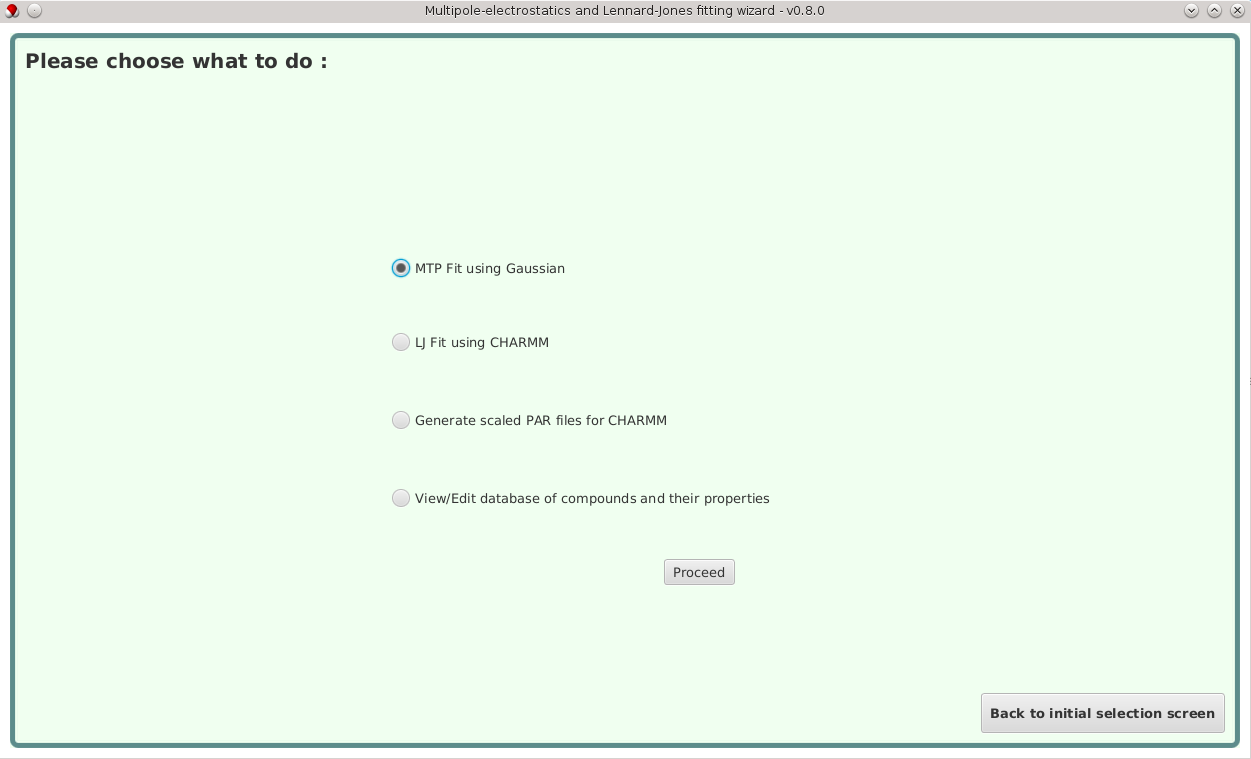
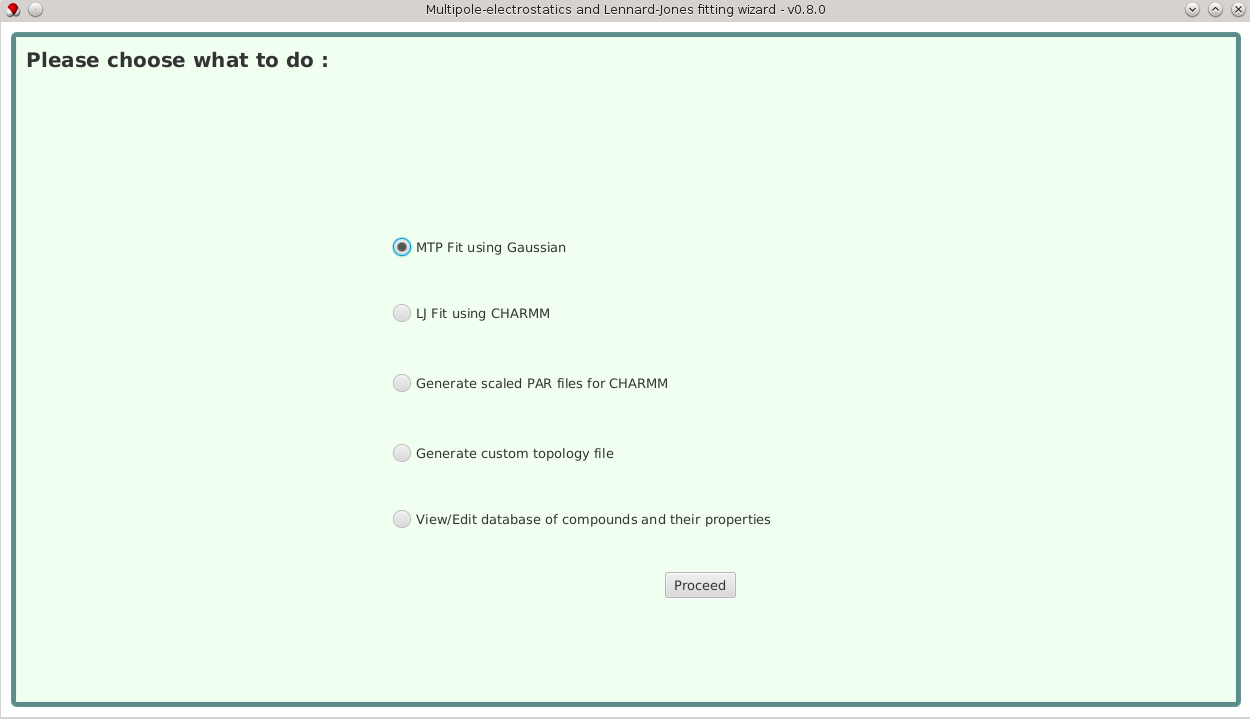
added basic interface for generating RTF and PSF files

diff --git a/src/ch/unibas/fittingwizard/WhereToGo.java b/src/ch/unibas/fittingwizard/WhereToGo.java
@@ -11,6 +11,7 @@ package ch.unibas.fittingwizard;
 import ch.unibas.charmmtools.gui.database.DB_View_Edit;
 import ch.unibas.charmmtools.gui.step1.CHARMM_GUI_InputAssistant;
 import ch.unibas.charmmtools.gui.step4.CHARMM_GUI_Fitgrid;
+import ch.unibas.charmmtools.gui.topology.GenerateTopology;
 import ch.unibas.fittingwizard.presentation.MoleculeListPage;
 import ch.unibas.fittingwizard.presentation.base.WizardPage;
 import java.io.File;
@@ -26,10 +27,10 @@ import javafx.scene.control.ToggleGroup;
  *
  * @author hedin
  */
-public class WhereToGo extends WizardPage{
+public class WhereToGo extends WizardPage {
 
     private static final String title = "Please choose what to do : ";
-    
+
     @FXML // fx:id="Choices"
     private ToggleGroup Choices; // Value injected by FXMLLoader
 
@@ -44,11 +45,13 @@ public class WhereToGo extends WizardPage{
 
     @FXML // fx:id="goMTP"
     private RadioButton goMTP; // Value injected by FXMLLoader
-    
+
     @FXML // fx:id="goGridScale"
     private RadioButton goGridScale; // Value injected by FXMLLoader
 
-    
+    @FXML // fx:id="goGridScale"
+    private RadioButton goTopology; // Value injected by FXMLLoader
+
     public WhereToGo() {
         super(title);
         removeButtonFromButtonBar(button_initialSelection);
@@ -59,33 +62,36 @@ public class WhereToGo extends WizardPage{
     protected void fillButtonBar() {
 
     }
-    
+
     @FXML
-    protected void goToScreen(ActionEvent e){
+    protected void goToScreen(ActionEvent e) {
         RadioButton selected = (RadioButton) Choices.getSelectedToggle();
-        
-        if (selected.equals(goMTP)){
-            
+
+        if (selected.equals(goMTP)) {
+
             navigateTo(MoleculeListPage.class, null);
-        
-        }
-        else if(selected.equals(goCHARMM)){
-            
+
+        } else if (selected.equals(goCHARMM)) {
+
 //            List<File> test = new ArrayList<>();
 //            test.add(new File("/home/hedin/progra/fittingWizard/test/ph_br.xyz"));
             navigateTo(CHARMM_GUI_InputAssistant.class);
-            
-        }
-        else if (selected.equals(goDB)){
-            
+
+        } else if (selected.equals(goDB)) {
+
             navigateTo(DB_View_Edit.class, null);
+
+        } else if (selected.equals(goGridScale)) {
+
+            navigateTo(CHARMM_GUI_Fitgrid.class, null);
+            
+        } else if (selected.equals(goTopology)) {
+
+            logger.info("Going to topology generate page");
+            navigateTo(GenerateTopology.class, null);
             
         }
-        else if (selected.equals(goGridScale)){
-            
-             navigateTo(CHARMM_GUI_Fitgrid.class, null);
-        }
-        
+
     }
-    
+
 }

diff --git a/src/ch/unibas/charmmtools/files/structure/PSF.java b/src/ch/unibas/charmmtools/files/structure/PSF.java
@@ -53,32 +53,34 @@ public abstract class PSF {
     protected List<Dihedral> diheList = null;
     protected List<Improper> imprList = null;
     
-        /**
+    public abstract String getTextContent();
+    
+    /**
      * @param args the command line arguments
      */
-    public static void main(String[] args) {
-
-        try {
-            // initialise logger
-            BasicConfigurator.configure();
-
-            //path to xyz file and csv file
-            String xyzName = args[0];
-            String csvName = args[1];
-
-            //reads a coordinates file (xyz format only)
-            XyzFile xyzf = XyzFileParser.parse(new File(xyzName));
-
-            //generates a topology file
-            RTF rtff = new RTF_generate(xyzf, csvName);
-            
-            //then a PSF file re-using data from PSF 
-            PSF psff = new PSF_generate(rtff);
-            
-        } catch (IOException ex) {
-            Logger.getLogger(RTF_generate.class.getName()).log(Level.SEVERE, null, ex);
-        }
-
-    }
+//    public static void main(String[] args) {
+//
+//        try {
+//            // initialise logger
+//            BasicConfigurator.configure();
+//
+//            //path to xyz file and csv file
+//            String xyzName = args[0];
+//            String csvName = args[1];
+//
+//            //reads a coordinates file (xyz format only)
+//            XyzFile xyzf = XyzFileParser.parse(new File(xyzName));
+//
+//            //generates a topology file
+//            RTF rtff = new RTF_generate(xyzf, csvName);
+//            
+//            //then a PSF file re-using data from PSF 
+//            PSF psff = new PSF_generate(rtff);
+//            
+//        } catch (IOException ex) {
+//            Logger.getLogger(RTF_generate.class.getName()).log(Level.SEVERE, null, ex);
+//        }
+//
+//    }
 
 } // end of class PSF

diff --git a/src/ch/unibas/charmmtools/files/structure/PSF_generate.java b/src/ch/unibas/charmmtools/files/structure/PSF_generate.java
@@ -11,10 +11,9 @@ package ch.unibas.charmmtools.files.structure;
 
 import ch.unibas.charmmtools.files.topology.RTF;
 import ch.unibas.charmmtools.internals.Atom;
-import ch.unibas.charmmtools.internals.Bond;
-import java.io.BufferedWriter;
-import java.io.FileWriter;
+import java.io.CharArrayWriter;
 import java.io.IOException;
+import java.io.Writer;
 import java.util.Date;
 
 /**
@@ -30,7 +29,7 @@ public final class PSF_generate extends PSF {
     private String format02, format02a, format02b, format03;
     private String format04, format05, format06, format07, format08;
 
-    private BufferedWriter writer = null;
+    private Writer writer = null;
 
     public PSF_generate(RTF topolInfo) throws IOException {
 
@@ -62,9 +61,12 @@ public final class PSF_generate extends PSF {
         this.fixMass(topolInfo);
 
         //generate psf file
-        writer = new BufferedWriter(new FileWriter(this.myname + ".psf"));
+//        writer = new BufferedWriter(new FileWriter(this.myname + ".psf"));
+//        this.generate();
+//        writer.close();
+        writer = new CharArrayWriter();
         this.generate();
-        writer.close();
+        
     }
 
     private void fixMass(RTF topolInfo) {
@@ -203,6 +205,12 @@ public final class PSF_generate extends PSF {
             writer.write("\n");
         }
         writer.write("\n");
+    }
+    
+    @Override
+    public String getTextContent()
+    {
+        return writer.toString();
     }
 
 

diff --git a/src/ch/unibas/charmmtools/files/topology/RTF.java b/src/ch/unibas/charmmtools/files/topology/RTF.java
@@ -16,9 +16,11 @@ import ch.unibas.charmmtools.internals.Bond;
 import ch.unibas.charmmtools.internals.Dihedral;
 import ch.unibas.charmmtools.internals.Improper;
 import ch.unibas.charmmtools.internals.InternalCoordinates;
+import java.io.CharArrayWriter;
 import java.io.FileNotFoundException;
 import java.io.FileReader;
 import java.io.IOException;
+import java.io.Writer;
 import java.util.ArrayList;
 import java.util.HashMap;
 import java.util.List;
@@ -32,7 +34,8 @@ import java.util.logging.Logger;
 public abstract class RTF {
 
     protected String fname = null;
-
+    protected Writer writer = null;
+    
     protected List<?> InputDataAtoms = null;
 
     protected int natom = 0;
@@ -96,12 +99,14 @@ public abstract class RTF {
                 put("F", 18.998);
             }
         };
+        this.writer = new CharArrayWriter();
     }//ctor
 
     public RTF(String atomicInfo) {
         this.covRad = new HashMap<String, Double>();
         this.atomicWeight = new HashMap<String, Double>();
         readAtomicInfo(atomicInfo);
+        this.writer = new CharArrayWriter();
     }//ctor
 
     public final void readAtomicInfo(String atInfoFileName) {
@@ -200,6 +205,11 @@ public abstract class RTF {
 
     public double findMass(String atname) {
         return atomicWeight.get(atname);
+    }
+    
+    public String getTextContent()
+    {
+        return writer.toString();
     }
 
 }//end of RTF class

diff --git a/doc/status/workflow_status.tex b/doc/status/workflow_status.tex
@@ -182,9 +182,37 @@ Then it is possible to save all those files an to run all simulations : Figure \
 
 \clearpage
 
+\subsection{Generating custom PSF and TOP files using a XYZ file}
+
+The fourth possibility in Welcome screen (Figure \ref{fig0}) gives the user the possibility to 
+generate a set of custom topology (TOP,RTF) and structure (PSF) files.\\
+
+Those files are specifically generated for the studied molecule, using the optimised XYZ 
+coordinates from the Gaussian simulation.\\
+
+Once generated the files are displayed in a tabs structure (Figures \ref{fig15} and \ref{fig16})
+so the user still has the possibility to complete the generated files.
+
+\begin{figure}[h!]
+\centering
+\includegraphics[width=0.9\linewidth]{pics/scr15}
+\caption{CHARMM fitting procedure : generating a TOP/RTF file}
+\label{fig15}
+\end{figure}
+
+\begin{figure}[h!]
+\centering
+\includegraphics[width=0.9\linewidth]{pics/scr16}
+\caption{CHARMM fitting procedure : generating a PSF file}
+\label{fig16}
+\end{figure}
+
+
+\clearpage
+
 \subsection{Database of chemical compounds}
 
-The fourth possibility in Welcome screen (Figure \ref{fig0}) gives access to a database of 
+The fifth possibility in Welcome screen (Figure \ref{fig0}) gives access to a database of 
 compounds where the user can obtain experimental values for the density, Enthalpy of vaporization 
 and Free Energy of solvation.\\
 

diff --git a/src/ch/unibas/fittingwizard/presentation/base/WizardPageFactory.java b/src/ch/unibas/fittingwizard/presentation/base/WizardPageFactory.java
@@ -75,6 +75,7 @@ import ch.unibas.charmmtools.generate.inputs.CHARMM_Generator_DGHydr;
 import ch.unibas.charmmtools.gui.RunningCHARMM_DG;
 import ch.unibas.charmmtools.gui.database.DB_View_Edit;
 import ch.unibas.charmmtools.gui.step4.CHARMM_GUI_Fitgrid;
+import ch.unibas.charmmtools.gui.topology.GenerateTopology;
 import ch.unibas.charmmtools.scripts.ICHARMMScript;
 import ch.unibas.charmmtools.scripts.CHARMMScript_Den_Vap;
 import ch.unibas.charmmtools.scripts.CHARMMScript_DG_gas;
@@ -278,7 +279,10 @@ public class WizardPageFactory {
                 page = new DB_View_Edit(settings);
             } else if (type == WhereToGo.class) {
                 page = new WhereToGo();
-            } // MISC
+            } else if (type == GenerateTopology.class) {
+                page = new GenerateTopology();
+            }
+            // MISC
             else {
                 page = type.newInstance();
             }

diff --git a/src/ch/unibas/charmmtools/files/topology/RTF_generate.java b/src/ch/unibas/charmmtools/files/topology/RTF_generate.java
@@ -533,8 +533,9 @@ public final class RTF_generate extends RTF {
     }//end find_IC()
 
     private void write_topology_file() throws IOException {
+        
         Date d = new Date();
-        BufferedWriter writer = new BufferedWriter(new FileWriter(this.fname + ".rtf"));
+        //BufferedWriter writer = new BufferedWriter(new FileWriter(this.fname + ".rtf"));
 
         writer.write("* ...\n");
         writer.write("* Build RTF for " + this.fname + ".xyz\n");
